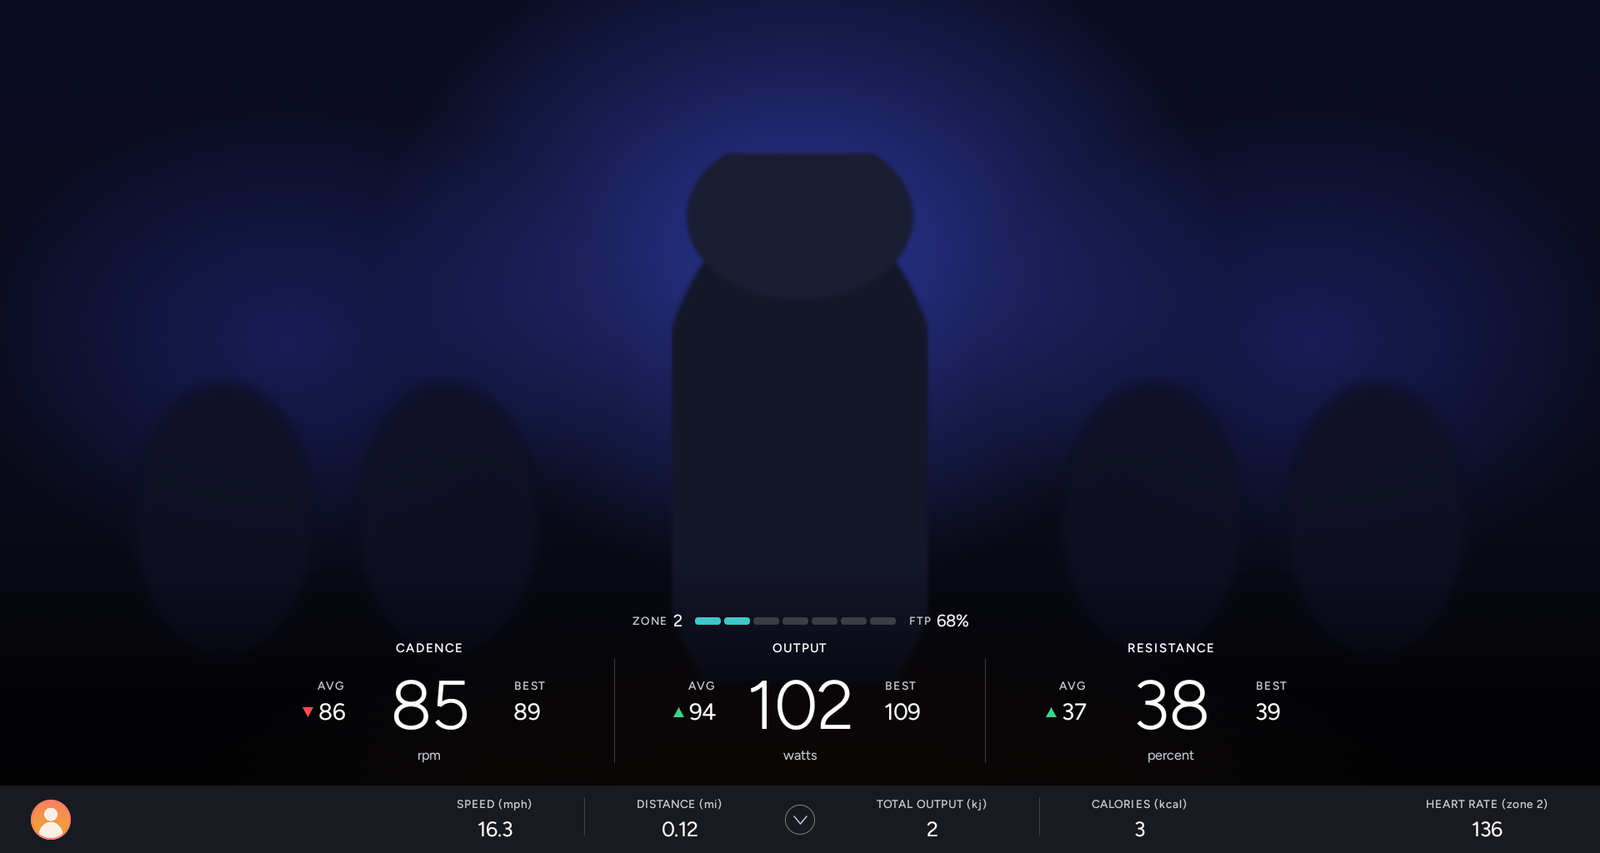
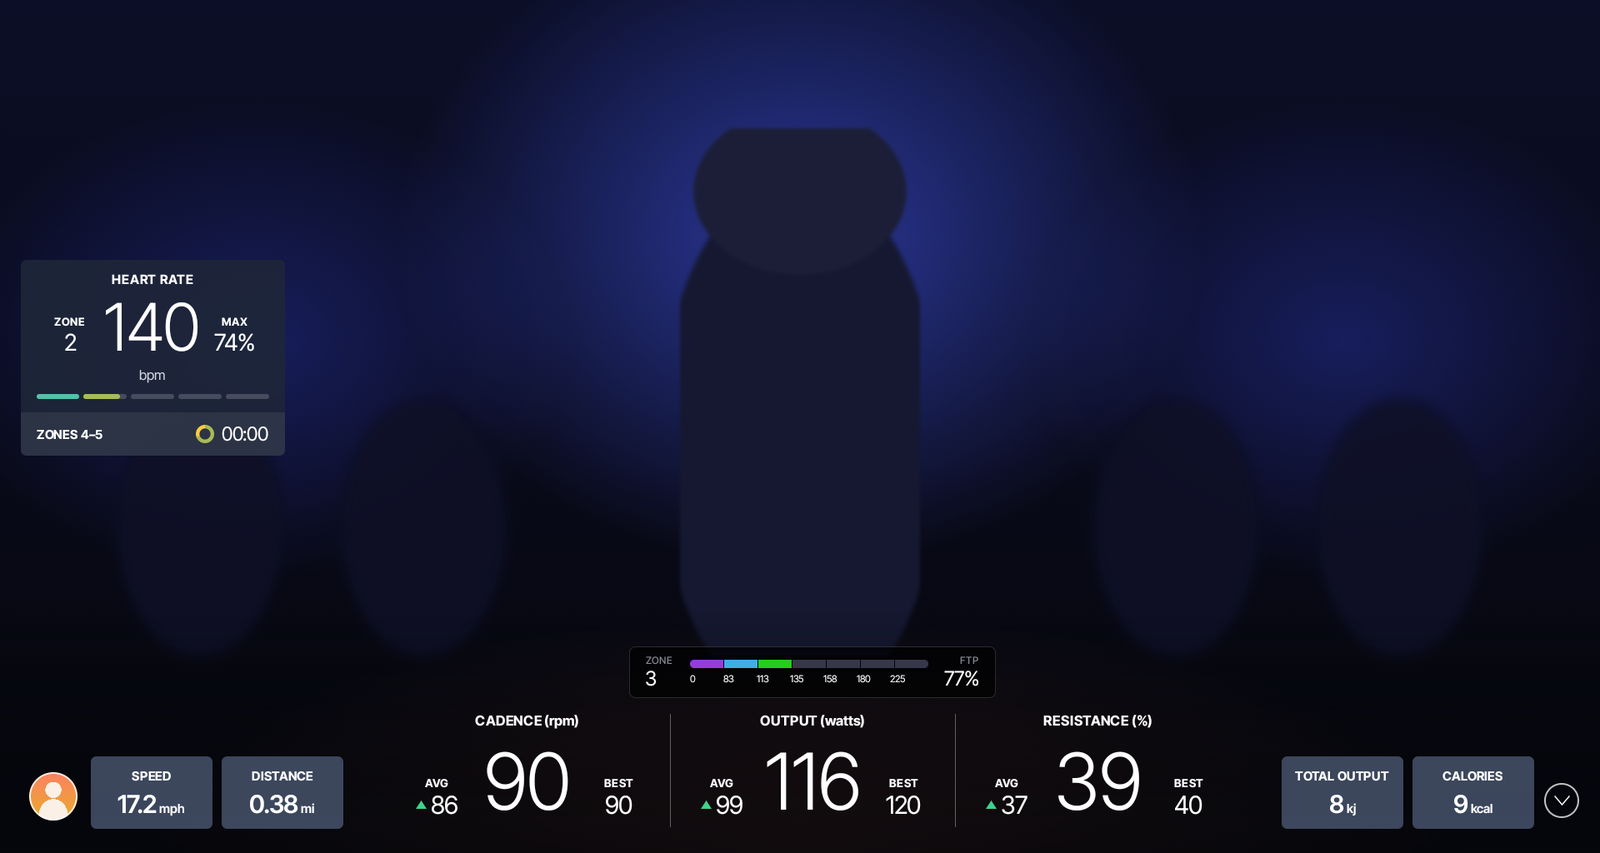
Update the README, screenshots and GIF for the new look

diff --git a/README.md b/README.md
@@ -6,10 +6,10 @@
 
 ![Android 8+](https://img.shields.io/badge/Android-8.0%2B-3ddc84?logo=android&logoColor=white)
 ![Kotlin](https://img.shields.io/badge/Kotlin-Jetpack%20Compose-7f52ff?logo=kotlin&logoColor=white)
-![APK size](https://img.shields.io/badge/APK-under%201%20MB-41c7c7)
+![APK size](https://img.shields.io/badge/APK-about%201%20MB-41c7c7)
 ![License: MIT](https://img.shields.io/badge/License-MIT-lightgrey)
 
-<img src="docs/demo.gif" alt="PeloSkin over a spin class: the full layout with heart rate, switching rider with the picture bubble so the heart rate monitor switches too, a tap to shrink it to a single line and back, then holding the skin to end the ride and the summary card with output and heart rate" width="100%">
+<img src="docs/demo.gif" alt="PeloSkin over a spin class: the Peloton-style layout with the heart rate panel on the left, switching rider with the picture bubble so the heart rate panel follows that rider's monitor, a tap to shrink it to a single line and back, then holding the skin to end the ride, the workout summary panel, and the workout details page" width="100%">
 
 </div>
 
@@ -42,11 +42,12 @@ what it's built for.
 
 |   |   |
 |---|---|
-| **Full layout** | Cadence, Output and Resistance in big numbers, each with AVG (green ▲ or red ▼ trend arrow) and BEST. Below them is a solid strip with speed, distance, total output (kJ) and calories. |
+| **Full layout** | Laid out like the screen on Peloton's own bikes. Cadence, Output and Resistance in big numbers, each with AVG (green ▲ or red ▼ trend arrow) and BEST. Speed and distance tiles sit on the left with the rider's picture, and total output and calories on the right. |
 | **Single-line bar** | Tap the skin to shrink it to one thin line with the numbers you pick, and tap again to bring the full layout back. Drag the bar to the top or bottom edge, and it stays there. |
-| **Power zones** | A 7-zone bar with your % of FTP, using Peloton's zone boundaries. |
+| **Power zones** | Peloton's zone box above your output: the zone, 7 colored segments with the watts each zone starts at, and your % of FTP. |
 | **Hold to end ride** | Press and hold the skin to end your ride and see its summary straight away. There's also an **End ride** button in settings. |
-| **Heart rate** | Pair any Bluetooth heart rate strap or armband, like in the Peloton app. Beats per minute show in both layouts, with the heart rate zone in the full layout. |
+| **Heart rate** | Pair any Bluetooth heart rate strap or armband, like in the Peloton app. The full layout gets Peloton's heart rate panel on the left edge: zone, beats per minute, % of max, the 5-zone meter, and time in zones 4–5 with a ring colored by time in each zone. The single-line bar shows beats per minute. |
+| **Personal record card** | Beat a best effort mid-ride and a card pops up in the top-right corner with the new watts and the old record. |
 | **mph or km/h** | Speed and distance in miles or kilometres. |
 
 **Your riding, kept by PeloSkin**
@@ -54,7 +55,7 @@ what it's built for.
 |   |   |
 |---|---|
 | **Riders** | Each rider has a name, a profile picture, and their own FTP, heart rate monitor, ride history and records. Their picture shows in the skin; tap it to switch rider, and PeloSkin connects to that rider's own heart rate monitor. |
-| **Ride summary** | When a ride ends: total and average output, cadence, distance and calories, an output graph, time in each power zone, best efforts, and how it compares with your last ride of the same length. With a heart rate monitor, also average and max heart rate, a heart rate graph and time in heart rate zones. Tap any past ride to see it again. |
+| **Workout complete** | When a ride ends you get Peloton's post-ride screen: a *Workout complete* bar, and a workout summary panel with the rider, medals for a new FTP or PRs, and the ride's totals, with the change since your last ride of the same length. **Workout details** opens the output graph, time in each power zone with its watt range, best efforts, and with a heart rate monitor the heart rate graph and time in each heart rate zone. Tap any past ride in settings to see it again. |
 | **Personal records** | Best 5-second, 1-minute, 5-minute and 20-minute output, plus best total output for each class length (20, 30, 45 minutes…). A gold banner calls out a new best the moment you set it. |
 | **Automatic FTP** | Your FTP is 95% of your best 20-minute average. PeloSkin tracks it on every ride and raises your FTP when you beat it. Easy rides never lower it, and a lower retest is one tap away. |
 | **Lifetime totals** | Each rider's total rides, time, output, distance and calories, counting every ride ever saved. |
@@ -68,11 +69,13 @@ what it's built for.
 | **Starts with the bike** | Starts at boot and after updates, and reconnects to the bike's sensors on its own. If Android restarts it mid-ride, the ride carries on. |
 | **One app** | Reads the bike itself, so there's nothing else to install or keep running. |
 
-<img src="docs/full.png" alt="PeloSkin full layout over a spin class: cadence, output and resistance with averages and bests, a power zone bar, and a strip with the rider's picture, speed, distance, total output, calories and heart rate with its zone" width="100%">
+<img src="docs/full.png" alt="PeloSkin full layout over a spin class: the heart rate panel on the left with zone, beats per minute, % of max and the zone meter; the power zone box above output; and along the bottom the rider's picture, speed and distance tiles, cadence, output and resistance with averages and bests, and total output and calories tiles" width="100%">
 
-<img src="docs/compact.png" alt="PeloSkin single-line bar over a spin class, with the rider's picture, cadence, output with zone blocks, resistance, speed, total output and heart rate" width="100%">
+<img src="docs/compact.png" alt="PeloSkin single-line bar over a spin class, with the rider's picture, cadence, output with power zone blocks, resistance, speed, total output and heart rate" width="100%">
 
-<img src="docs/summary.png" alt="PeloSkin ride summary: total output, average output, cadence, distance, calories and average heart rate, an output graph with the FTP line, a heart rate graph, time in each power zone and heart rate zone, and best efforts" width="70%">
+<img src="docs/summary.png" alt="PeloSkin after a ride: the Workout complete bar with Workout details and Done buttons, and the workout summary panel in the top-right corner with total output, average output, resistance and cadence, distance, calories and average heart rate, over the skin" width="100%">
+
+<img src="docs/details.png" alt="PeloSkin workout details page: a light sheet with the output graph, best and average watts, and time in each of the 7 power zones with their watt ranges on the left; the heart rate graph, time in each of the 5 heart rate zones and best efforts on the right" width="100%">
 
 ## Supported bikes
 
@@ -153,7 +156,7 @@ can run at once, but Grupetto's own overlay will show as well.
   Long-press it to put it on the home screen.
 - **End a ride:** press and hold the skin (either layout). A gold *Hold to end ride* bar fills
   over about 1.5 seconds; let go early to cancel. The ride is saved and its summary comes up right
-  away. You can also tap **End ride** in settings. Either way the skin keeps running, and the
+  away: tap **Workout details** for graphs and zones, and **Done** to close it. You can also tap **End ride** in settings. Either way the skin keeps running, and the
   next ride starts once you've stopped pedaling and start again.
 - **Turn it off:** open PeloSkin and tap **Stop**. That also ends the ride in progress. Leaving
   the settings screen doesn't stop the skin.
@@ -242,7 +245,7 @@ app/src/main/java/app/peloskin/
 │   └── store/           Settings, ride history, ride graphs, rider pictures, backup and checkpoint files
 ├── ui/
 │   ├── overlay/         The skin (full and single-line) and its overlay service
-│   ├── summary/         The after-ride summary card
+│   ├── summary/         The post-ride screen: workout complete bar, summary panel, details sheet
 │   └── settings/        Settings screen
 └── BootReceiver.kt      Start on boot and after updates
 ```
@@ -278,7 +281,7 @@ with location permission and Location turned on. PeloSkin uses it to find heart 
 never reads your location.
 
 **Will it slow the bike down?**
-It's under 1 MB, uses about 35 MB of memory and barely any CPU.
+It's about 1 MB, uses about 35 MB of memory and barely any CPU.
 
 ## Uninstall
 
@@ -293,8 +296,10 @@ The backup in `Documents/PeloSkin` stays until you delete it.
 - [Grupetto](https://github.com/doudar/grupetto) and [PeloMon](https://github.com/ihaque/pelomon)
   figured out how the bike's sensors and Peloton's sensor software work. PeloSkin's own code
   builds on what they documented.
-- [Figtree](https://github.com/erikdkennedy/figtree), the typeface, is under the SIL Open Font
-  License (see `FONT-LICENSE.txt`).
+- The skin is set in [Inter Tight](https://github.com/rsms/inter) and the settings screen in
+  [Figtree](https://github.com/erikdkennedy/figtree), both under the SIL Open Font License (see
+  `FONT-LICENSE.txt`). The skin's look follows the screen on Peloton's bikes; Peloton's logo and
+  font aren't used.
 
 ## Disclaimer
 
